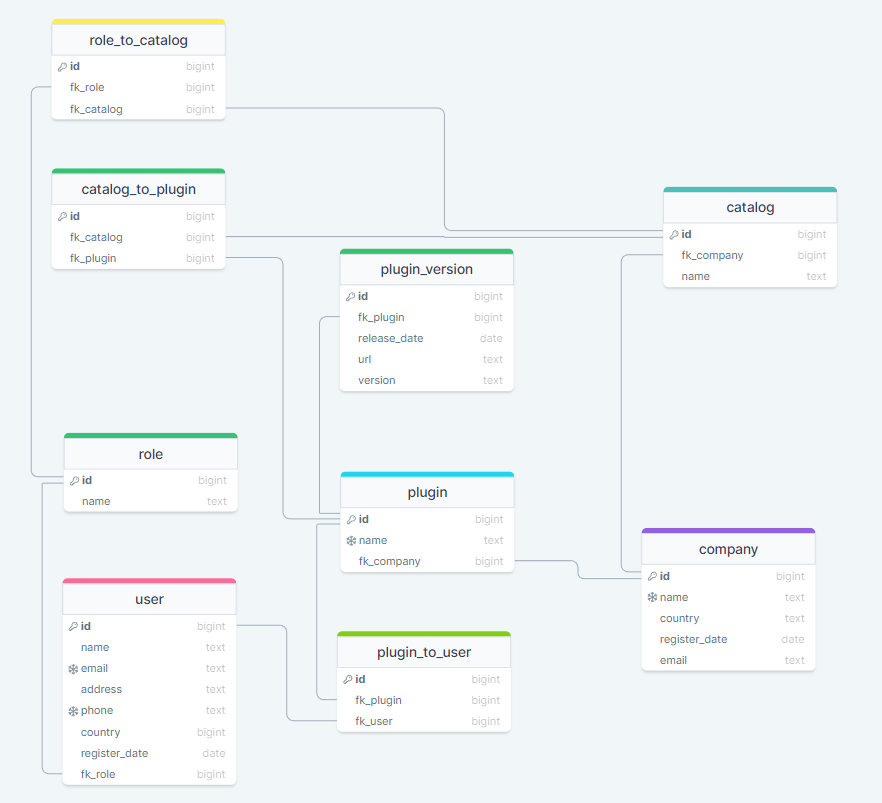
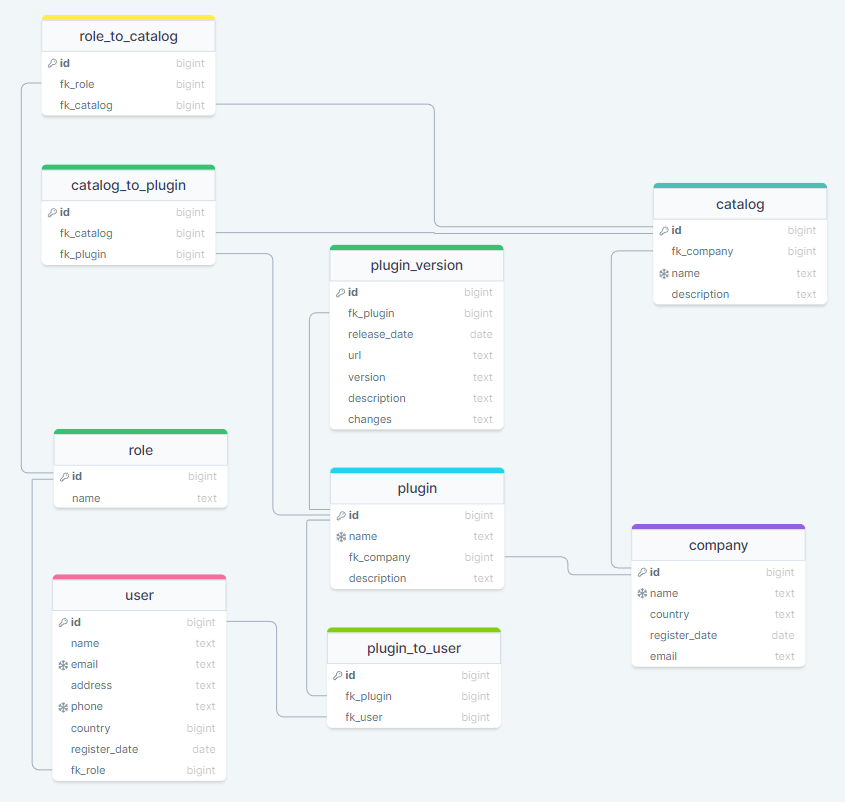
Added the first version for bd design lesson

diff --git a/homeworks/db_design.md b/homeworks/db_design.md
@@ -2,12 +2,39 @@
 
 ## Схема
 ![](../Files/bd_design_schema.png)
+
 ## Документация
 
-Проект сожержит 
+Выделено несколько основных сущностей.
+
+- Компания (**company**)
+- Пользователь (**user**)
+- Плагин, приложение (**plugin**)
+- Каталог (**catalog**)
+
+Связь между плагинами и каталогами выполнена как многие ко многим, т.е. плагин может быть в разных каталогах компании.
+Для этого использована таблица **catalog_to_plugin**.
+
+Пользователь может иметь права (быть подписанным) на отдельные плагины.
+Для связывания пользователей и плагинов используется таблица **plugin_to_user**.
+
+Каждый плагин может иметь различные версии. Для этого существует таблица **plugin_version**. 
+Там сохранены различные версии плагина и ссылка на скачивание каждой из версий. 
+Есть специальное поле для хранения изменений.
 
 ## Примеры бизнес-задач которые решает база
 
+Проект решает задачу по размещению (хостинг) десктоп приложений.
+Есть возможность с правами компании создавать каталоги приложений и размещать в них приложения. 
+Пользователи в соответствии с правами имеют доступ к отдельным плагинам из них.
+
+Компания загружает в систему плагин, пользователь имеет возможность загружать плагины и подписываться на ожидания обновлений.
+
 ## Рекомендации к использованию репликации
 
+В качестве схемы репликации рационально выбрать схему с мастер базой и одной асинхронной репликой,
+так как в данной реализации нет критических данных.
+
 ## Рекомендации к резервному копированию
+
+В качестве схемы бэкапа рекомендуется дифференциальное копирование, с одним полным бэкапом 1 раз в неделю.
